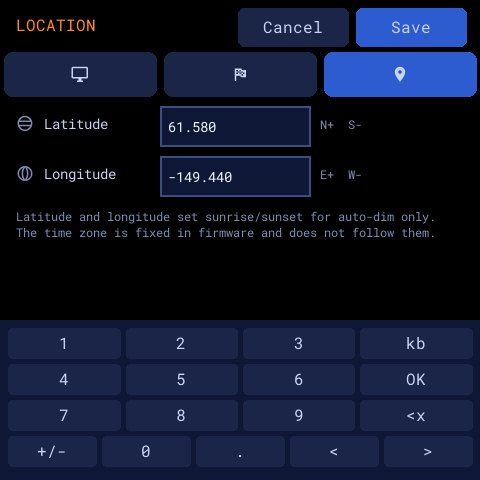
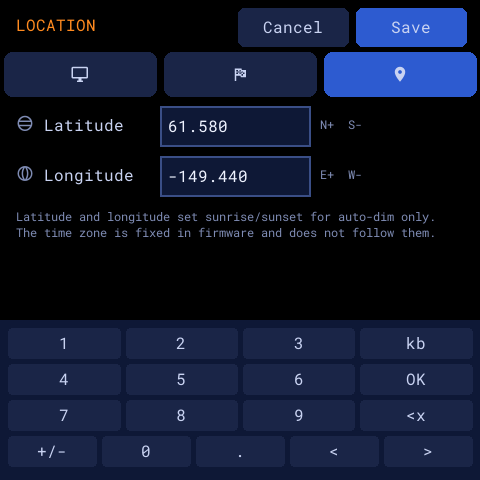
Font roles as sky-tracker: About header and data headings, settings rows mono16, debug mono16 (decision 197)

diff --git a/tools/render_pages.py b/tools/render_pages.py
@@ -603,7 +603,7 @@ def _sw(d, px, py, wid, G, on):
 def _field(d, px, py, wid, G, text):
     x, y, w, h = box(G, wid, px, py)
     d.rectangle([x, y, x + w, y + h], fill=(0x0E, 0x18, 0x36), outline=(0x3A, 0x4E, 0x86), width=2)
-    d.text((x + 8, y + h // 2), text, font=FONT[14], fill=(0xEE, 0xF2, 0xFF), anchor="lm")
+    d.text((x + 8, y + h // 2), text, font=FONT[16], fill=(0xEE, 0xF2, 0xFF), anchor="lm")
 
 
 def _slider(d, px, py, wid, G, frac):
@@ -705,7 +705,7 @@ def page_race_with_icon(ctx):
 def page_about(ctx):
     G = ctx["geo"]
     require(G, "page-12-about", "about_close", "about_mark", "about_title", "about_f1", "about_name", "about_version",
-            "about_by", "about_build", "about_device_hdr", "about_device", "about_data", "about_legal")
+            "about_hdr", "about_by", "about_build", "about_device_hdr", "about_device", "about_data_hdr", "about_data", "about_legal")
     img = Image.new("RGB", (W, H), BG); d = ImageDraw.Draw(img)
     mark = os.path.join(ROOT, "reference", "logo", "boot-200.png")
     mx, my, _, _ = box(G, "about_mark")
@@ -721,7 +721,9 @@ def page_about(ctx):
         d.text((x + w // 2, y), text, font=FONT[size], fill=fill, anchor="ma")
     tx, ty, tw, th = box(G, "about_title")
     _title(img, d, tx + tw // 2, ty + th // 2)
-    centred("about_version", "Version 0.1.0", 14, TEXT)
+    hx, hy, _, _ = box(G, "about_hdr")
+    d.text((hx, hy), "ABOUT", font=FONT[16], fill=(0xFF, 0x8A, 0x1F))
+    centred("about_version", "Version 0.1.0", 16, (0xDC, 0xE4, 0xF8))
     centred("about_by", "by Dan Morphis", 14, MUTED)
     centred("about_build", "ESPHome 2026.9.1, built Oct 8 2026", 12, MUTED)
     hx, hy, _, _ = box(G, "about_device_hdr")
@@ -730,12 +732,13 @@ def page_about(ctx):
     d.multiline_text((dx, dy),
         "f1-tracker-9cad68  192.168.1.52\nWi-Fi home-ssid  -52 dBm\nMAC 24:EC:4A:9C:AD:68\nUp 3h 12m",
         font=FONT[14], fill=(0xDC, 0xE4, 0xF8), spacing=2)
+    hx, hy, _, _ = box(G, "about_data_hdr")
+    d.text((hx, hy), "DATA FROM", font=FONT[12], fill=(0xFF, 0x8A, 0x1F))
     x, y, w, h = box(G, "about_data")
     d.multiline_text((x, y),
-        "Data from\n  Jolpica, jolpi.ca  and  OpenF1, openf1.org  (CC BY-NC-SA 4.0)\n"
-        "  Portraits: Wikimedia Commons, credited on each card\n"
-        "  Flags: flag-icons (MIT)   Circuits: f1-circuits (MIT)",
-        font=FONT[12], fill=MUTED, spacing=5)
+        "Jolpica jolpi.ca, OpenF1 openf1.org (CC BY-NC-SA)\nPortraits: Wikimedia Commons, credited on each card\n"
+        "Flags: flag-icons (MIT)  Circuits: f1-circuits (MIT)",
+        font=FONT[14], fill=TEXT, spacing=2)
     x, y, w, h = box(G, "about_legal")
     d.multiline_text((x, y),
         "Unofficial and not affiliated with Formula 1, the FIA or any\nteam. The F1 logo and names are trademarks of their owners.",
@@ -752,16 +755,16 @@ def page_settings(ctx):
     G = ctx["geo"]
     img, d, px, py = _settings_frame(ctx, "page-9-settings", 0,
         ("sw_autodim", "sw_autooff", "sl_bright", "ta_off_from", "ta_off_to"))
-    _row_icon(d, px, py, 6, 0xF00E1); d.text((px + 44, py + 6), "Auto-dim display", font=FONT[14], fill=TEXT)
+    _row_icon(d, px, py, 6, 0xF00E1); d.text((px + 44, py + 6), "Auto-dim display", font=FONT[16], fill=TEXT)
     _sw(d, px, py, "sw_autodim", G, True)
-    _row_icon(d, px, py, 56, 0xF0904); d.text((px + 44, py + 56), "Auto off overnight", font=FONT[14], fill=TEXT)
+    _row_icon(d, px, py, 56, 0xF0904); d.text((px + 44, py + 56), "Auto off overnight", font=FONT[16], fill=TEXT)
     _sw(d, px, py, "sw_autooff", G, True)
-    _row_icon(d, px, py, 106, 0xF0594); d.text((px + 44, py + 106), "Off from", font=FONT[14], fill=TEXT)
+    _row_icon(d, px, py, 106, 0xF0594); d.text((px + 44, py + 106), "Off from", font=FONT[16], fill=TEXT)
     _field(d, px, py, "ta_off_from", G, "23")
-    d.text((px + 224, py + 106), "until", font=FONT[14], fill=MUTED)
+    d.text((px + 224, py + 106), "until", font=FONT[16], fill=MUTED)
     _field(d, px, py, "ta_off_to", G, "7")
     d.text((px + 364, py + 106), "local h", font=FONT[12], fill=MUTED)
-    _row_icon(d, px, py, 162, 0xF00DF); d.text((px + 44, py + 162), "Brightness", font=FONT[14], fill=TEXT)
+    _row_icon(d, px, py, 162, 0xF00DF); d.text((px + 44, py + 162), "Brightness", font=FONT[16], fill=TEXT)
     _slider(d, px, py, "sl_bright", G, 0.8)
     return img, "page-9-settings"
 
@@ -770,12 +773,12 @@ def page_settings_race(ctx):
     G = ctx["geo"]
     img, d, px, py = _settings_frame(ctx, "page-9b-settings-race", 1,
         ("sl_carousel", "lbl_carousel", "sw_alerts", "sw_milestone"))
-    _row_icon(d, px, py, 6, 0xF051B); d.text((px + 44, py + 6), "Carousel", font=FONT[14], fill=TEXT)
-    d.text((px + 160, py + 6), "45 s", font=FONT[14], fill=MUTED)
+    _row_icon(d, px, py, 6, 0xF051B); d.text((px + 44, py + 6), "Carousel", font=FONT[16], fill=TEXT)
+    d.text((px + 160, py + 6), "45 s", font=FONT[16], fill=MUTED)
     _slider(d, px, py, "sl_carousel", G, 0.29)
-    _row_icon(d, px, py, 56, 0xF009E); d.text((px + 44, py + 56), "Watched driver alerts", font=FONT[14], fill=TEXT)
+    _row_icon(d, px, py, 56, 0xF009E); d.text((px + 44, py + 56), "Watched driver alerts", font=FONT[16], fill=TEXT)
     _sw(d, px, py, "sw_alerts", G, True)
-    _row_icon(d, px, py, 106, 0xF053A); d.text((px + 44, py + 106), "Milestones only", font=FONT[14], fill=TEXT)
+    _row_icon(d, px, py, 106, 0xF053A); d.text((px + 44, py + 106), "Milestones only", font=FONT[16], fill=TEXT)
     _sw(d, px, py, "sw_milestone", G, False)
     return img, "page-9b-settings-race"
 
@@ -784,10 +787,10 @@ def page_settings_location(ctx):
     G = ctx["geo"]
     img, d, px, py = _settings_frame(ctx, "page-9c-settings-location", 2,
         ("ta_lat", "ta_lon", "settings_kb"))
-    _row_icon(d, px, py, 10, 0xF0F57); d.text((px + 44, py + 10), "Latitude", font=FONT[14], fill=TEXT)
+    _row_icon(d, px, py, 10, 0xF0F57); d.text((px + 44, py + 10), "Latitude", font=FONT[16], fill=TEXT)
     _field(d, px, py, "ta_lat", G, "61.580")
     d.text((px + 320, py + 12), "N+  S-", font=FONT[12], fill=MUTED)
-    _row_icon(d, px, py, 60, 0xF0F5A); d.text((px + 44, py + 60), "Longitude", font=FONT[14], fill=TEXT)
+    _row_icon(d, px, py, 60, 0xF0F5A); d.text((px + 44, py + 60), "Longitude", font=FONT[16], fill=TEXT)
     _field(d, px, py, "ta_lon", G, "-149.440")
     d.text((px + 320, py + 62), "E+  W-", font=FONT[12], fill=MUTED)
     d.multiline_text((px + 16, py + 104),
@@ -1056,7 +1059,7 @@ def page_debug(ctx):
             "  Carousel: CIRCUIT 14/40\n"
             "  Jolpica 41 fetches, last 3 h\n"
             "  OpenF1 skipped (window) x6")
-    d.multiline_text((8, 36), body, font=FONT[12], fill=TEXT, spacing=4)
+    d.multiline_text((8, 32), body, font=FONT[16], fill=TEXT, spacing=2)
     return img, "page-10-debug"
 
 

diff --git a/REQUIREMENTS.md b/REQUIREMENTS.md
@@ -2575,6 +2575,7 @@ exists.
 | 194 | **The update card and the web page patches live in `tracker-common`**, an ESPHome external component (`github://akcoder/tracker-common`) shared with `sky-tracker`: `tracker_updlogic.h`, `tracker_update.h`, `tracker_web.h`, and (also asked for) `tracker_jpg.h` (one decoder: half, full, fit, copy, with progress, cancel and streaming), `tracker_png.h` (one streaming decoder: palette+tRNS and 8-bit grey/RGB/RGBA, crop, background, box filter), `tracker_sun.h` (the Sun's elevation; `sky_math.h` has changed twice ever, so extracting it costs no version churn), `tracker_panel.h` (the ST7701S soft reset), `tracker_boot.h` (the Wi-Fi status page's state machine, with F1's own `race_is_primary` kept in `f1_boot.h`), `fonts.yaml` (the shared font set, an ESPHome package) and `tools/svgpath.py`; namespace `tracker::`; their tests moved with them (update 46, sun 12, PNG 17, boot 11; `test_jpg` stays here with the portraits, 225 checks). A project passes its fonts, icon, header badge and GitHub URL. **One look for all: the title in Roboto Light 34 and every other card line, button and the release notes in Roboto Mono 16** (the 12 px font is not used). `f1_update.h`, `f1_updlogic.h`, `f1_web.h`, `f1_jpg.h`, `f1_png.h`, `f1_sun.h`, `f1_panel.h`, `svgpath.py` are gone from this repo and `tests/Makefile` needs a `tracker-common` checkout beside it (or `TC=`); `render_pages.py`, `check_glyphs.py` and `gen_logo.py` find it through `tools/tracker_common.py`; `deploy.sh` also gates warnings in `tracker_common`; `dev/f1-tracker-dev.yaml` points the build at a local checkout through substitutions | 2026-10-10 | **asked for by owner**, supersedes 45 for the web patches |
 | 195 | **Releases are built and published as `sky-tracker` does** (`.github/workflows/firmware.yml`, ESPHome's own build workflow): publishing a GitHub release builds the public config, attaches the manifest and the two `.bin` files to the release, and publishes the same files with the install page on GitHub Pages. The device checks `https://akcoder.github.io/f1-tracker/manifest.json`; the **release notes are the release's body** (`ota.summary`). Binaries are no longer committed (`docs/manifest.json` and `docs/f1-tracker.factory.bin` are gone) and `tools/make_release.py` with them, which removes the reasons decision 184 gave for keeping the manifest as a release asset (history size, Pages CORS: Pages serves both). **Needs** the repo's Pages source set to *GitHub Actions* | 2026-10-10 | **asked for by owner** (use `sky-tracker`'s), supersedes 184's mechanism |
 | 196 | **The About page's device text is `sky-tracker`'s** (`tracker_about.h`): a small orange `THIS DEVICE` heading, then `name  ip`, `Wi-Fi ssid  -52 dBm`, `MAC ...`, `Up 3h 12m` in the 14 px font; durations as `45s`, `12m`, `1h 31m`, `2d 4h`; the build date as `Oct 8 2026` | 2026-10-10 | **asked for by owner**, implements UI-67 |
+| 197 | **Font roles, one set across the trackers** (audit against `sky-tracker` and `plane-tracker`): page names (`ABOUT`, `DISPLAY`, `DEBUG`) mono16 orange; settings rows, labels and text fields **mono16** (were mono14), hints mono12; About: `Version` mono16, `THIS DEVICE` and `DATA FROM` mono12 orange headings over mono14 bodies, `ABOUT` header top left; debug page body **mono16** (was mono12); card titles mono18, card bodies mono14, order rows mono12 (22 rows need it); boot/About title Roboto 50 for f1 only (sized to the F1 logo, sky/plane use Roboto 34). Not shared: sky's mono15 alerts and mono72 countdown | 2026-10-10 | **asked for by owner**, implements 194 |
 
 ---
 
